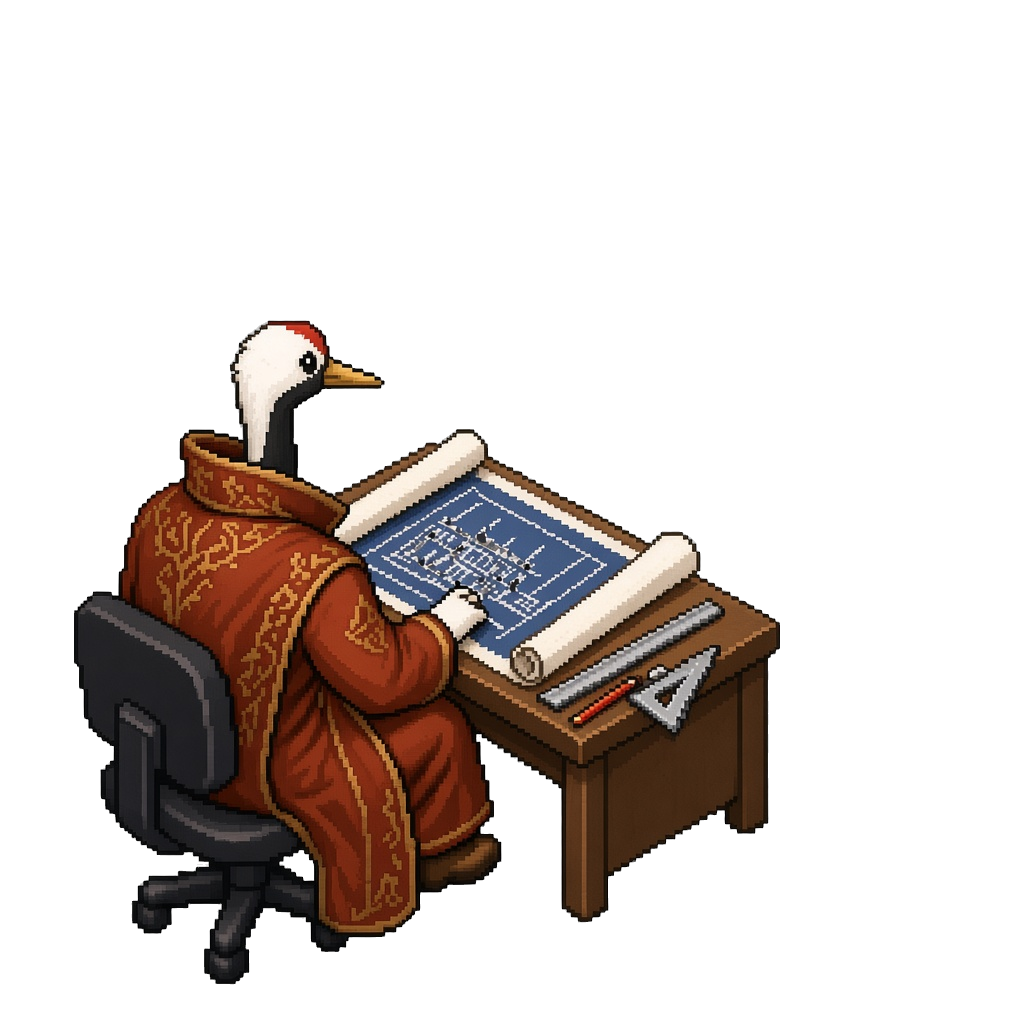
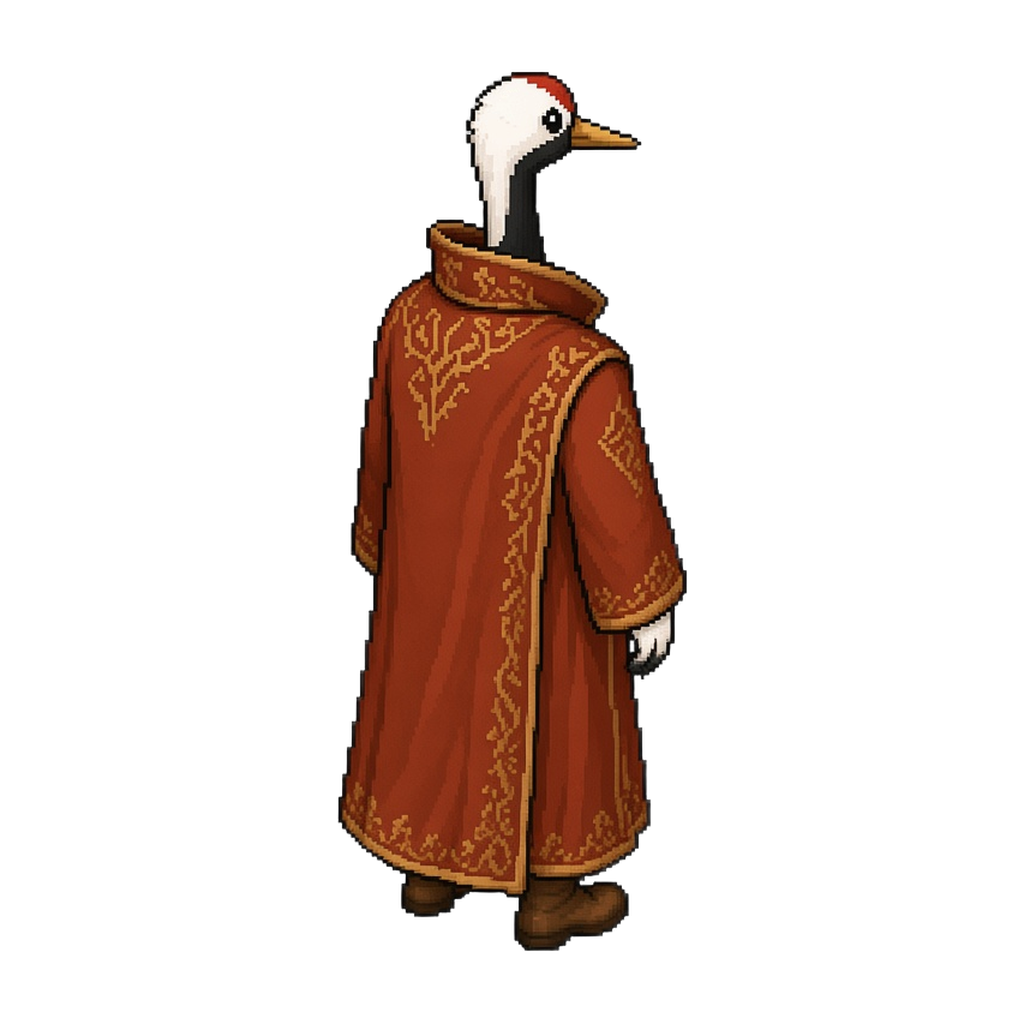
pixel map: desk-free meet sprites; 智子 in all Parsecreation rooms
Meeting sprites no longer include personal desks/chairs—standing
characters only around the shared conference table. Roster matches
group chats: 智子 in 抉擇塔 + both Parsecreation meeting rooms.

diff --git a/ai-office-pixel-map.html b/ai-office-pixel-map.html
@@ -477,27 +477,29 @@
           name: 'Parsecreation 磁鐵改靚',
           tint: '#a5f3fc',
           members: [
+            { name: '智子', sprite: 'zhizi-meet.png' },
             { name: '藍圖官', sprite: 'blueprint-meet.png' },
             { name: '鑄造使', sprite: 'forge-meet.png' },
             { name: '文案官', sprite: 'copywriter-meet.png' }
           ],
-          blurb: '會議室 · 群組 · 藍圖官、鑄造使、文案官'
+          blurb: '會議室 · 群組 · 智子、藍圖官、鑄造使、文案官'
         },
         {
           key: 'parse-brand',
           name: 'Parsecreation 品牌網站',
           tint: '#fbcfe8',
           members: [
+            { name: '智子', sprite: 'zhizi-meet.png' },
             { name: '藍圖官', sprite: 'blueprint-meet.png' },
             { name: '文案官', sprite: 'copywriter-meet.png' }
           ],
-          blurb: '會議室 · 群組 · 藍圖官、文案官'
+          blurb: '會議室 · 群組 · 智子、藍圖官、文案官'
         }
       ]
     };
 
-    const FURN_V = 'furn20';
-    const SPRITE_V = 'meet3';
+    const FURN_V = 'furn21';
+    const SPRITE_V = 'meet4';
 
 
     function checker(tint) {
